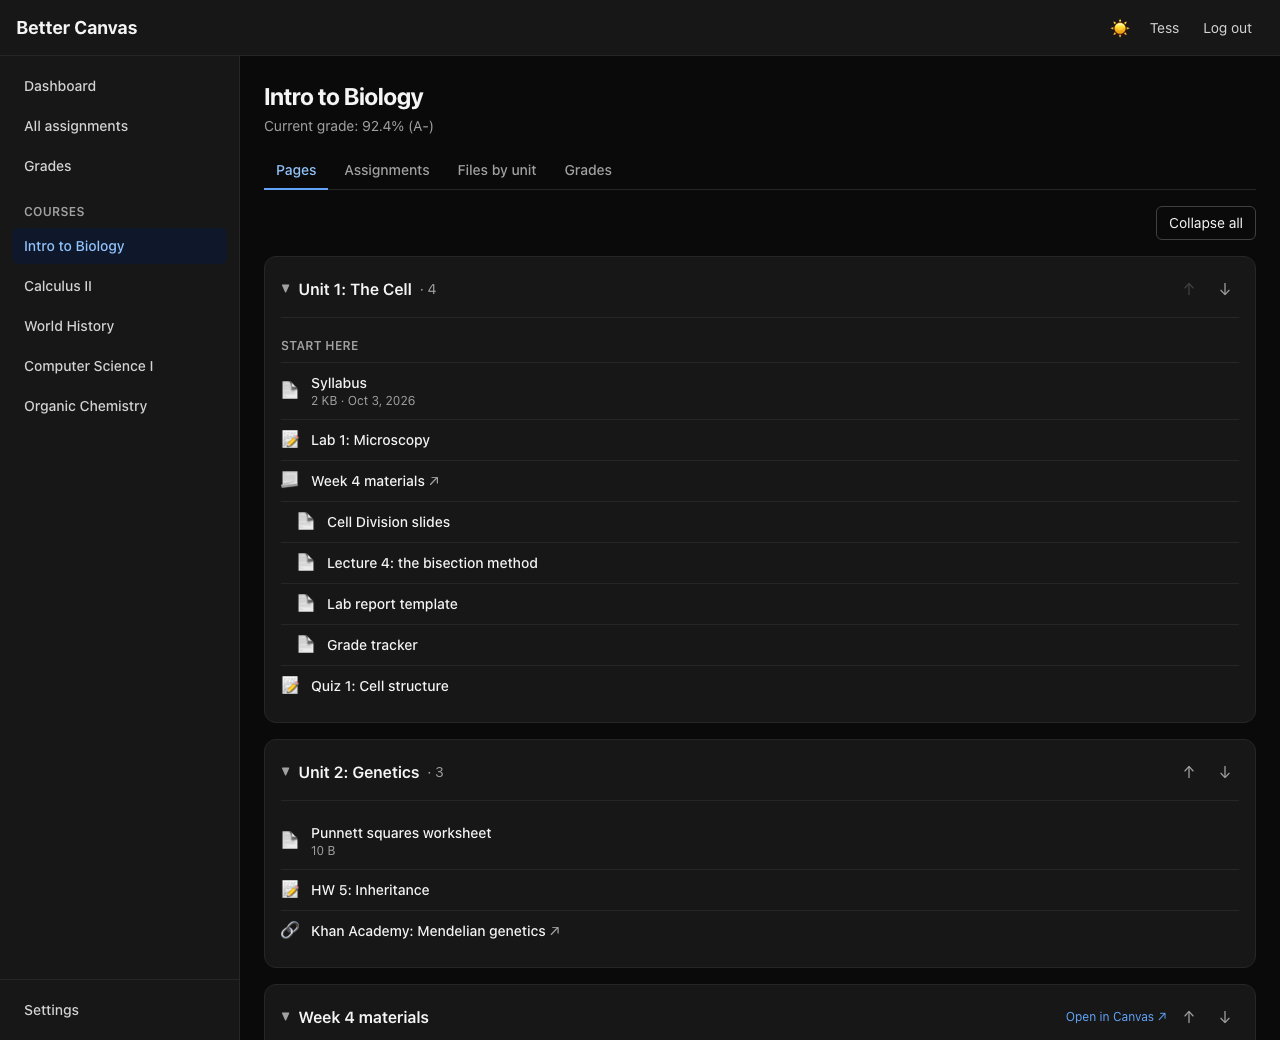
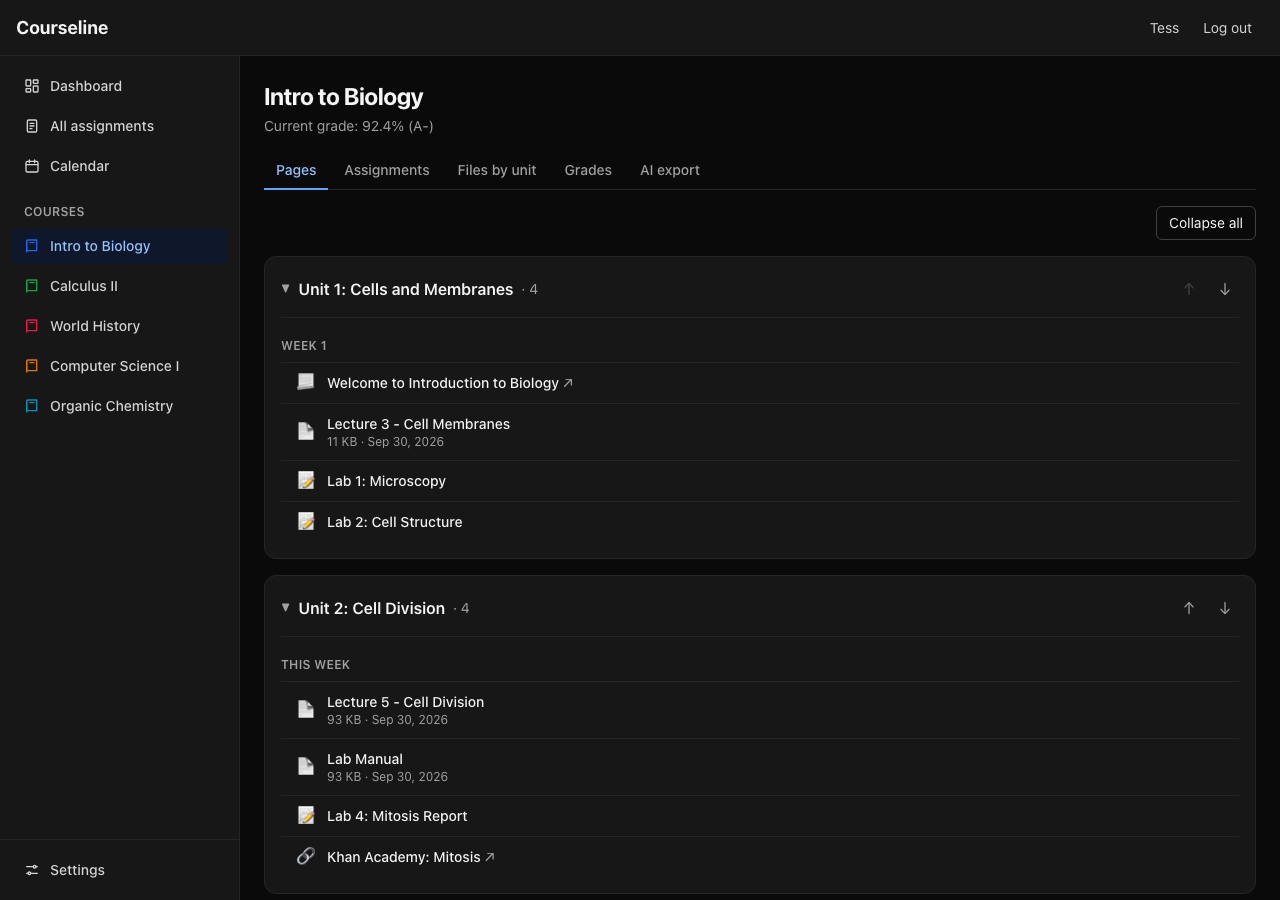
Retake the README screenshots under the Courseline name, and add a calendar one

diff --git a/README.md b/README.md
@@ -28,6 +28,8 @@ Screenshots use made-up course data.
 | ![Course pages, dark mode](docs/screenshots/course-pages.png) | ![Grades page](docs/screenshots/grades.png) |
 | **PDF viewer** | **PowerPoint viewer** |
 | ![PDF in the in-app viewer](docs/screenshots/viewer-pdf.png) | ![A slide deck in the in-app viewer](docs/screenshots/viewer-slides.png) |
+| **Calendar, colored by course and status** | |
+| ![Calendar](docs/screenshots/calendar.png) | |
 
 Developer documentation (architecture, every file, how to change anything, known gaps):
 **[DEVELOPER_GUIDE.md](DEVELOPER_GUIDE.md)**.
